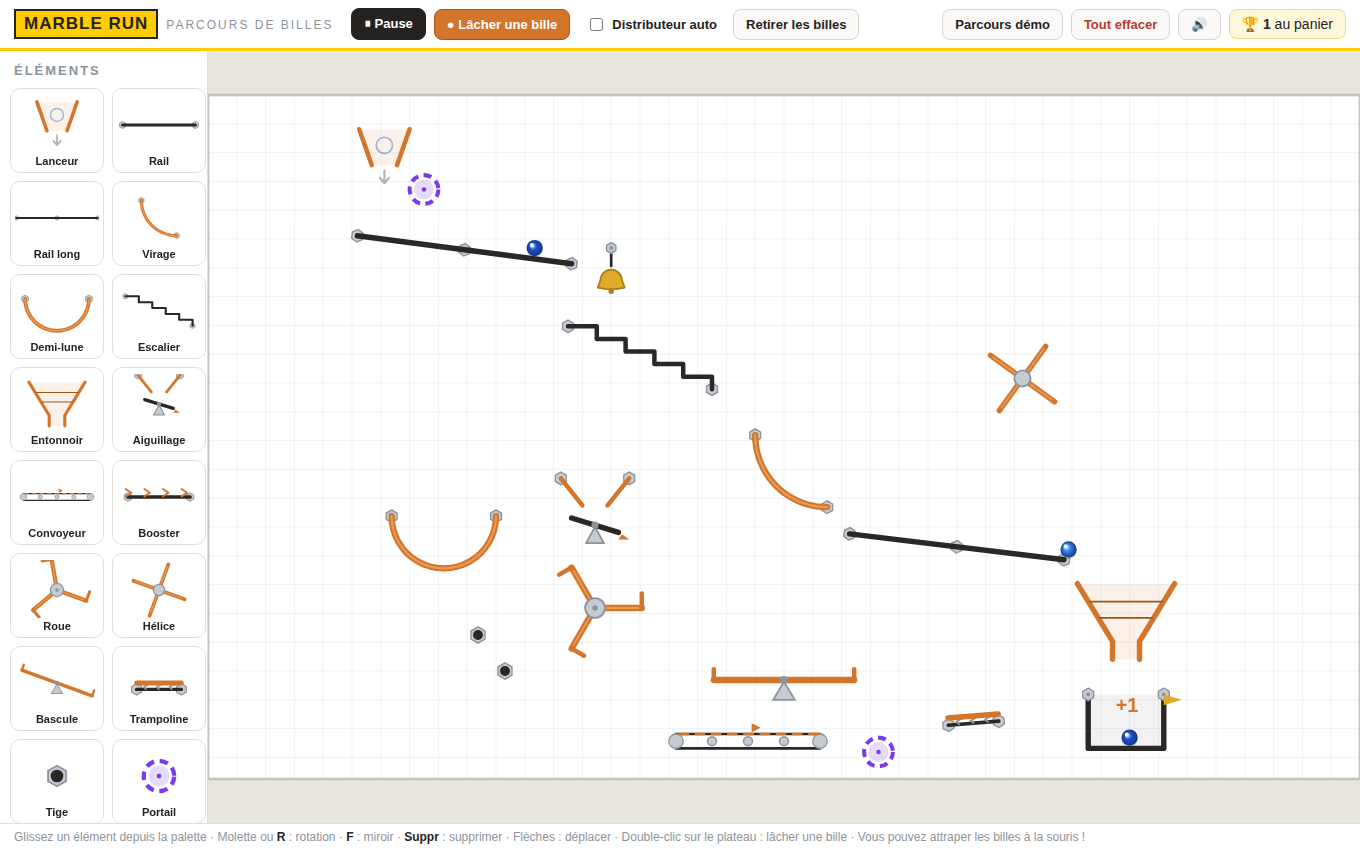
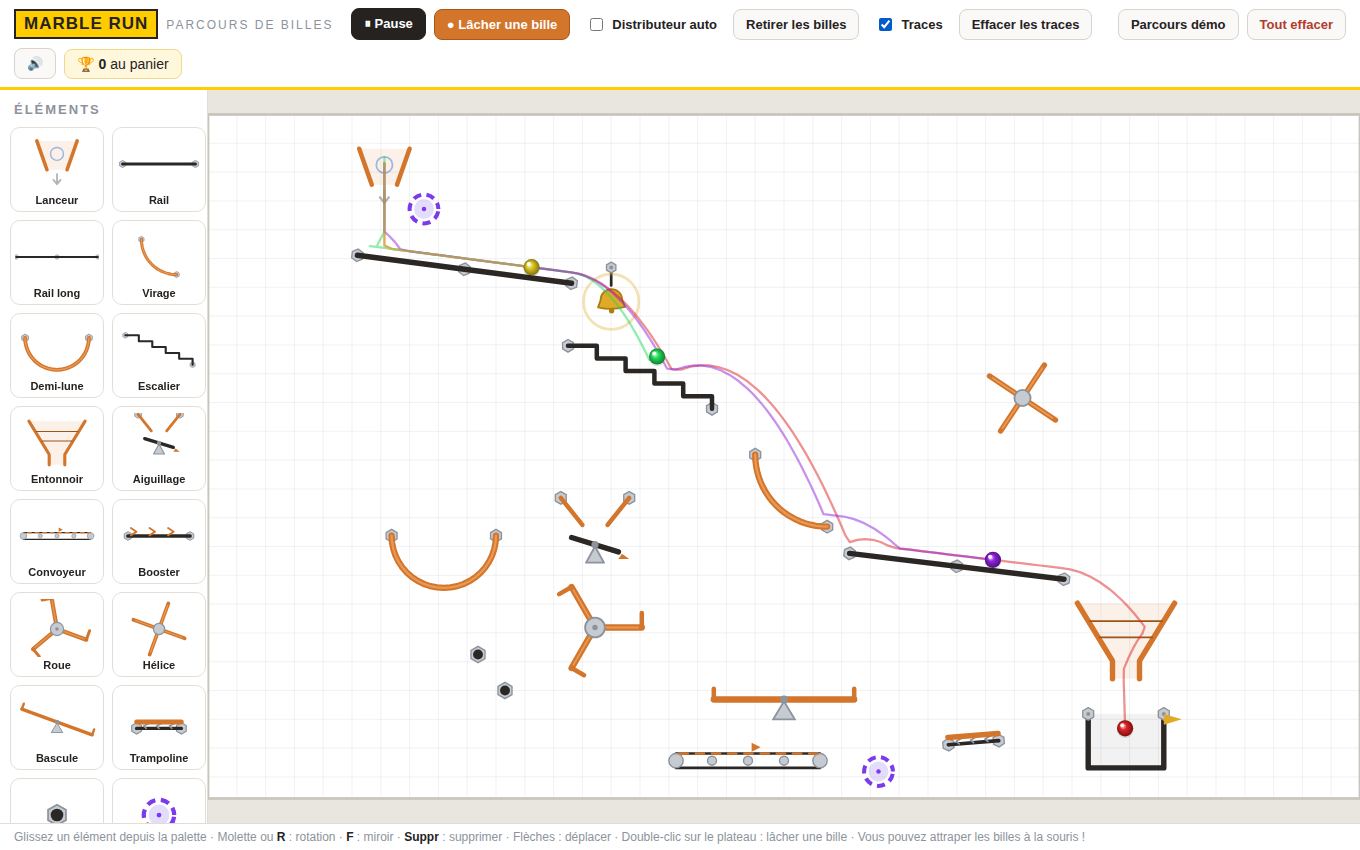
Couleurs uniques par bille et traces de trajectoire
- Chaque bille reçoit une couleur distincte (rotation de teinte par
  angle d'or), reflétée dans son dégradé de rendu
- Case « Traces » : affiche la trajectoire de chaque bille dans sa
  couleur ; les traces des billes disparues sont conservées et la
  téléportation par portail coupe le trait
- Bouton « Effacer les traces »

Claude-Session: https://claude.ai/code/session_017JxFo8mXjSvgMVgzpY1LWH

diff --git a/js/game.js b/js/game.js
@@ -15,7 +15,9 @@ const MAX_SPEED = 1500;        // vitesse max d'une bille
 const SUBSTEPS = 4;            // sous-pas physiques par image
 const RAIL_HALF_THICK = 3;     // demi-épaisseur des rails pour la collision
 const MAX_MARBLES = 80;
-const MARBLE_COLORS = ['#2f6fd6', '#2f6fd6', '#3b82f6', '#1d4ed8', '#38bdf8'];
+const TRAIL_MAX_POINTS = 600;   // par bille
+const TRAIL_MAX_DEAD = 40;      // traces conservées après disparition
+const HUE_STEP = 137.508;       // angle d'or : couleurs successives bien distinctes
 
 /* ------------------------------------------------------------------ */
 /* Sons (WebAudio, généré à la volée : aucun fichier nécessaire)      */
@@ -93,6 +95,9 @@ class Game {
     this.autoTimer = 0;
     this.score = 0;
     this.nextId = 1;
+    this.marbleSeq = 0;       // numéro de bille, pour la couleur
+    this.showTrails = false;
+    this.deadTrails = [];     // traces des billes disparues
     this.onScore = null;      // callback UI
     this.onEdit = null;       // callback sauvegarde auto
 
@@ -155,16 +160,28 @@ class Game {
   /* ---------------- billes ---------------- */
 
   spawnMarble(x, y, vx = 0, vy = 0) {
-    if (this.marbles.length >= MAX_MARBLES) this.marbles.shift();
+    if (this.marbles.length >= MAX_MARBLES) this.retireMarble(this.marbles.shift());
+    const hue = Math.round((this.marbleSeq++ * HUE_STEP) % 360);
     this.marbles.push({
       x, y, vx, vy,
       r: MARBLE_R,
-      color: MARBLE_COLORS[(Math.random() * MARBLE_COLORS.length) | 0],
+      color: `hsl(${hue}, 72%, 50%)`,
+      colorDark: `hsl(${hue}, 80%, 28%)`,
+      colorLight: `hsl(${hue}, 65%, 88%)`,
       scored: false,
       held: false,
       portalCd: 0,
+      trail: [],
     });
     SFX.pop();
+  }
+
+  /* conserve la trace d'une bille qui quitte le plateau */
+  retireMarble(m) {
+    if (m && m.trail.length > 1) {
+      this.deadTrails.push({ color: m.color, pts: m.trail });
+      if (this.deadTrails.length > TRAIL_MAX_DEAD) this.deadTrails.shift();
+    }
   }
 
   dropFromLaunchers() {
@@ -180,7 +197,18 @@ class Game {
   }
 
   clearMarbles() {
+    for (const m of this.marbles) {
+      if (!m.held) this.retireMarble(m);
+    }
     this.marbles = this.marbles.filter(m => m.held);
+  }
+
+  clearTrails() {
+    this.deadTrails = [];
+    for (const m of this.marbles) {
+      m.trail = [];
+      m.lastTrailX = undefined;
+    }
   }
 
   /* ---------------- physique ---------------- */
@@ -200,6 +228,7 @@ class Game {
       this.checkPortals(dt);
       this.checkBells();
       this.checkScoring();
+      this.recordTrails();
       this.despawn();
     }
     /* effets visuels */
@@ -444,6 +473,8 @@ class Game {
             m.x = to.x;
             m.y = to.y;
             m.portalCd = 0.5;      // évite l'aller-retour instantané
+            m.trail.push(null);    // coupe la trace pendant la téléportation
+            m.lastTrailX = undefined;
             SFX.warp();
             break;
           }
@@ -490,9 +521,30 @@ class Game {
     }
   }
 
+  recordTrails() {
+    /* on mémorise toujours la trajectoire : activer l'affichage plus
+       tard montre aussi le passé récent */
+    for (const m of this.marbles) {
+      if (m.lastTrailX === undefined ||
+          Math.hypot(m.x - m.lastTrailX, m.y - m.lastTrailY) > 7) {
+        m.trail.push([m.x, m.y]);
+        m.lastTrailX = m.x;
+        m.lastTrailY = m.y;
+        if (m.trail.length > TRAIL_MAX_POINTS) m.trail.shift();
+      }
+    }
+  }
+
   despawn() {
-    this.marbles = this.marbles.filter(m =>
-      m.held || (m.y < WORLD_H + 80 && m.x > -80 && m.x < WORLD_W + 80));
+    const keep = [];
+    for (const m of this.marbles) {
+      if (m.held || (m.y < WORLD_H + 80 && m.x > -80 && m.x < WORLD_W + 80)) {
+        keep.push(m);
+      } else {
+        this.retireMarble(m);
+      }
+    }
+    this.marbles = keep;
   }
 
   /* ---------------- vue / rendu ---------------- */
@@ -569,6 +621,18 @@ class Game {
       }
     }
 
+    /* traces des trajectoires */
+    if (this.showTrails) {
+      ctx.save();
+      ctx.lineWidth = 2.5;
+      ctx.lineCap = 'round';
+      ctx.lineJoin = 'round';
+      ctx.globalAlpha = 0.5;
+      for (const tr of this.deadTrails) strokeTrail(ctx, tr.pts, tr.color);
+      for (const m of this.marbles) strokeTrail(ctx, m.trail, m.color);
+      ctx.restore();
+    }
+
     /* billes */
     for (const m of this.marbles) {
       ctx.beginPath();
@@ -576,9 +640,9 @@ class Game {
       ctx.fillStyle = 'rgba(0,0,0,0.10)';
       ctx.fill();
       const g = ctx.createRadialGradient(m.x - 3, m.y - 3, 1, m.x, m.y, m.r);
-      g.addColorStop(0, '#dbeafe');
+      g.addColorStop(0, m.colorLight);
       g.addColorStop(0.35, m.color);
-      g.addColorStop(1, '#123a7a');
+      g.addColorStop(1, m.colorDark);
       ctx.beginPath();
       ctx.arc(m.x, m.y, m.r, 0, TAU);
       ctx.fillStyle = g;
@@ -634,6 +698,21 @@ class Game {
     }
     return null;
   }
+}
+
+/* trace une trajectoire ; les entrées null coupent le trait
+   (téléportation par portail) */
+function strokeTrail(ctx, pts, color) {
+  if (pts.length < 2) return;
+  ctx.strokeStyle = color;
+  ctx.beginPath();
+  let pen = false;
+  for (const p of pts) {
+    if (!p) { pen = false; continue; }
+    if (pen) ctx.lineTo(p[0], p[1]);
+    else { ctx.moveTo(p[0], p[1]); pen = true; }
+  }
+  ctx.stroke();
 }
 
 function distToSegment(px, py, ax, ay, bx, by) {

diff --git a/js/ui.js b/js/ui.js
@@ -270,6 +270,14 @@ function setupUI(game) {
     game.clearMarbles();
   });
 
+  document.getElementById('chkTrails').addEventListener('change', (e) => {
+    game.showTrails = e.target.checked;
+  });
+
+  document.getElementById('btnClearTrails').addEventListener('click', () => {
+    game.clearTrails();
+  });
+
   document.getElementById('btnDemo').addEventListener('click', () => {
     game.load(DEMO_COURSE);
     game.score = 0;

diff --git a/index.html b/index.html
@@ -17,6 +17,10 @@
     <input type="checkbox" id="chkAuto"> Distributeur auto
   </label>
   <button id="btnClearMarbles" class="btn" title="Retirer toutes les billes du plateau">Retirer les billes</button>
+  <label class="toggle" title="Afficher la trajectoire parcourue par chaque bille, dans sa couleur">
+    <input type="checkbox" id="chkTrails"> Traces
+  </label>
+  <button id="btnClearTrails" class="btn" title="Effacer toutes les traces actuelles">Effacer les traces</button>
   <span class="sep"></span>
   <button id="btnDemo" class="btn" title="Recharger le parcours de démonstration">Parcours démo</button>
   <button id="btnClearAll" class="btn danger" title="Vider entièrement le plateau">Tout effacer</button>

diff --git a/README.md b/README.md
@@ -51,6 +51,9 @@ npx serve .
 - **Double-clic** sur le plateau : lâcher une bille à cet endroit
 - **Attraper une bille** à la souris pour la déplacer ou la lancer
 - **Espace** : pause / reprise de la physique
+- **Traces** : chaque bille a sa propre couleur ; cochez « Traces » pour
+  afficher la trajectoire parcourue par chacune (dans sa couleur), et
+  « Effacer les traces » pour repartir de zéro
 
 Sur **écran tactile** (iPad, mobile) : glissez les éléments au doigt, touchez
 un élément pour afficher les boutons pivoter / miroir / supprimer, et